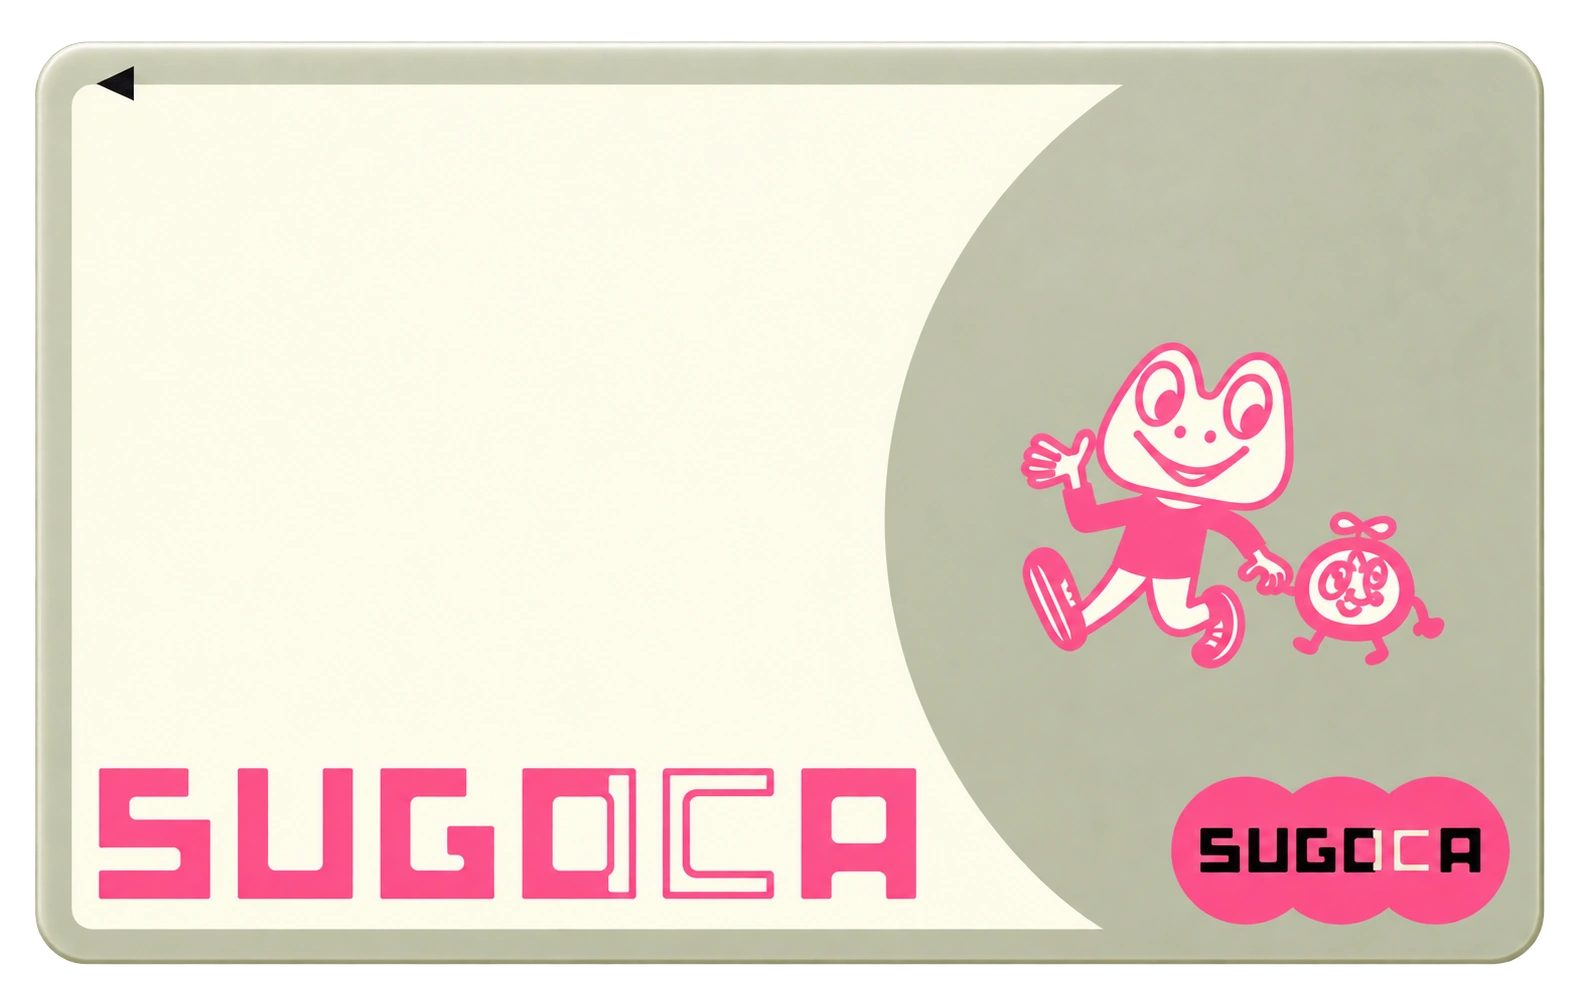
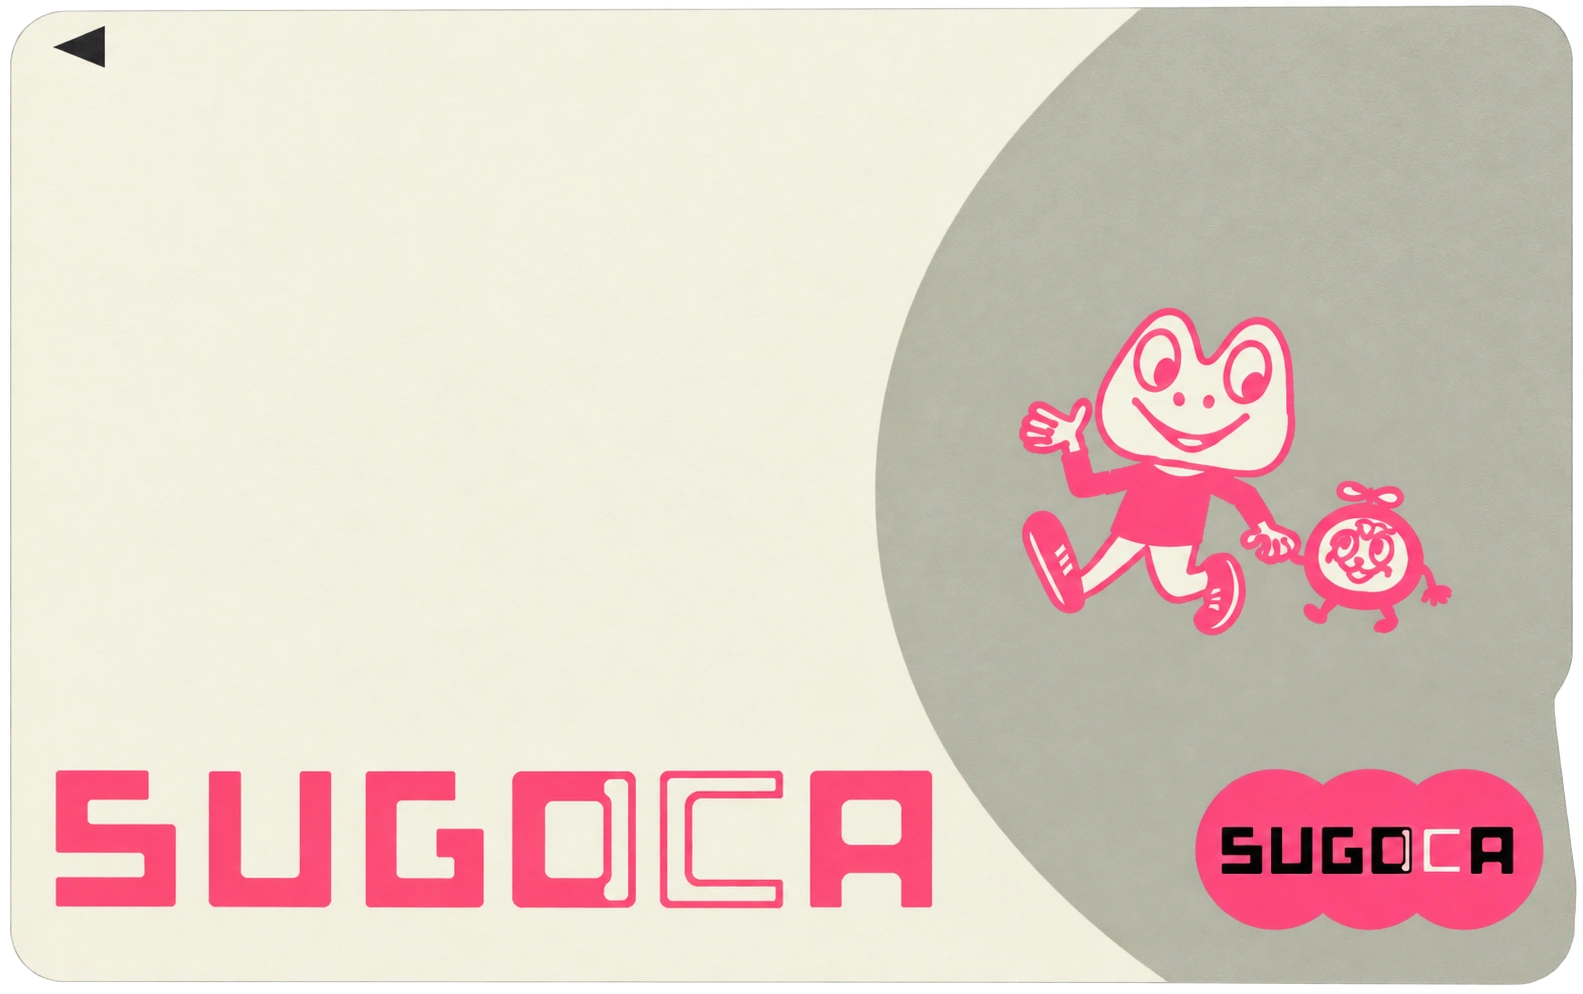
Redraw card presets with transparent slanted outlines

Changed region(s): [[0.0, 0.0, 1.0, 0.998], [0.6206, 0.3119, 0.931, 0.6861], [0.5586, 0.5614, 0.5896, 0.6549]]

diff --git a/app/src/main/java/app/noca/CardArt.kt b/app/src/main/java/app/noca/CardArt.kt
@@ -20,16 +20,12 @@ import androidx.compose.ui.Alignment
 import androidx.compose.ui.Modifier
 import androidx.compose.ui.draw.clip
 import androidx.compose.ui.draw.shadow
-import androidx.compose.ui.geometry.CornerRadius
-import androidx.compose.ui.geometry.Offset
 import androidx.compose.ui.geometry.Rect
-import androidx.compose.ui.geometry.RoundRect
 import androidx.compose.ui.geometry.Size
 import androidx.compose.ui.graphics.Color
 import androidx.compose.ui.graphics.ImageBitmap
 import androidx.compose.ui.graphics.Outline
 import androidx.compose.ui.graphics.Path
-import androidx.compose.ui.graphics.PathOperation
 import androidx.compose.ui.graphics.Shape
 import androidx.compose.ui.graphics.asImageBitmap
 import androidx.compose.ui.layout.ContentScale
@@ -82,22 +78,28 @@ private class TransitCardShape(private val notched: Boolean) : Shape {
         val w = size.width
         val h = size.height
         val radius = h * (3.18f / 53.98f)
-        val card =
+        val depth = w * (1.20f / 85.60f)
+        val edge =
             Path().apply {
-                addRoundRect(RoundRect(Rect(Offset.Zero, size), CornerRadius(radius)))
-            }
-        if (!notched) return Outline.Generic(card)
-        // The shallow orientation cut follows the lower right edge of the physical card.
-        val cut =
-            Path().apply {
-                moveTo(w + 1f, h * .68f)
-                lineTo(w, h * .68f)
-                cubicTo(w, h * .715f, w * .986f, h * .72f, w * .986f, h * .745f)
-                cubicTo(w * .986f, h * .80f, w, h * .90f, w, h * .94f)
-                lineTo(w + 1f, h * .94f)
+                moveTo(radius, 0f)
+                lineTo(w - radius, 0f)
+                arcTo(Rect(w - radius * 2f, 0f, w, radius * 2f), -90f, 90f, false)
+                if (notched) {
+                    // The orientation notch belongs to the plastic outline, not the printed face.
+                    // Keep it on the physical right edge in either interface reading direction.
+                    lineTo(w, h * .68f)
+                    cubicTo(w, h * .712f, w - depth, h * .72f, w - depth, h * .745f)
+                    cubicTo(w - depth, h * .80f, w, h * .90f, w, h * .94f)
+                }
+                lineTo(w, h - radius)
+                arcTo(Rect(w - radius * 2f, h - radius * 2f, w, h), 0f, 90f, false)
+                lineTo(radius, h)
+                arcTo(Rect(0f, h - radius * 2f, radius * 2f, h), 90f, 90f, false)
+                lineTo(0f, radius)
+                arcTo(Rect(0f, 0f, radius * 2f, radius * 2f), 180f, 90f, false)
                 close()
             }
-        return Outline.Generic(Path.combine(PathOperation.Difference, card, cut))
+        return Outline.Generic(edge)
     }
 }
 
@@ -111,6 +113,7 @@ fun artworks(context: Context): List<CardArtwork> {
 fun CardArt(id: String, modifier: Modifier = Modifier) {
     val context = LocalContext.current
     val art = remember(context, id) { artworks(context).firstOrNull { it.id == id } }
+    val preset = art?.file != null
     var targetWidth by remember { mutableIntStateOf(0) }
     val shape = remember(art?.notched) { TransitCardShape(art?.notched == true) }
     val display =
@@ -118,13 +121,12 @@ fun CardArt(id: String, modifier: Modifier = Modifier) {
             .aspectRatio(CARD_ASPECT_RATIO)
             .onSizeChanged { targetWidth = it.width }
             .shadow(
-                6.dp,
+                2.dp,
                 shape,
                 clip = false,
-                ambientColor = Color.Black.copy(alpha = .10f),
-                spotColor = Color.Black.copy(alpha = .16f),
+                ambientColor = Color.Black.copy(alpha = .08f),
+                spotColor = Color.Black.copy(alpha = .14f),
             )
-            .clip(shape)
     val bitmap by
         produceState<ImageBitmap?>(null, context, id, targetWidth) {
             value = null
@@ -142,14 +144,16 @@ fun CardArt(id: String, modifier: Modifier = Modifier) {
         Image(
             visibleBitmap,
             contentDescription = art?.name,
-            modifier = display.background(Color.White),
-            contentScale = if (art != null) ContentScale.FillBounds else ContentScale.Crop,
+            modifier = if (preset) display else display.clip(shape),
+            contentScale = if (preset) ContentScale.Fit else ContentScale.Crop,
         )
     else
         Box(
-            display.background(
-                art?.color?.let { Color(it.toColorInt()) } ?: LocalNocaColors.current.accent
-            ),
+            display
+                .clip(shape)
+                .background(
+                    art?.color?.let { Color(it.toColorInt()) } ?: LocalNocaColors.current.accent
+                ),
             contentAlignment = Alignment.Center,
         ) {
             Column(horizontalAlignment = Alignment.CenterHorizontally) {

diff --git a/docs/ASSETS.md b/docs/ASSETS.md
@@ -1,6 +1,6 @@
 # Artwork credits
 
-Transit-card names, logos, mascots, and designs belong to their respective issuers. The bundled high-resolution illustrations follow the issuer designs listed below, with subtle plastic shading and edge detail. NOCA is an independent application and is not affiliated with these issuers. The MIT license covers the application source code, not issuer trademarks or card designs.
+Transit-card names, logos, mascots, and designs belong to their respective issuers. The bundled high-resolution card artwork follows the issuer designs listed below, with flat printed graphics and subtle plastic surface detail. Preset images have transparent silhouettes with rounded corners and a right-edge orientation notch. NOCA is an independent application and is not affiliated with these issuers. The MIT license covers the application source code, not issuer trademarks or card designs.
 
 | Card | Source |
 | --- | --- |

diff --git a/README.md b/README.md
@@ -11,7 +11,7 @@ An offline NFC reader for Japanese transit IC cards, built with Rust and Jetpack
 - Remember cards with a name and artwork; scan them again to update their balance and history.
 - Keep previously read transactions on your device, even after they leave the card's history.
 - Choose a card design or import your own photo. Delete saved cards and their history at any time.
-- High-resolution card illustrations with subtle material detail, thin edges, and soft shadows.
+- High-resolution card artwork with realistic printed plastic surfaces and physical card outlines.
 - Material 3 Expressive interface with raised buttons, press feedback, and ticket-shaped balances.
 - Lime, Mist Blue, and Coral themes with light, dark, and system modes.
 - System fonts, automatic language selection, and a searchable language picker.
